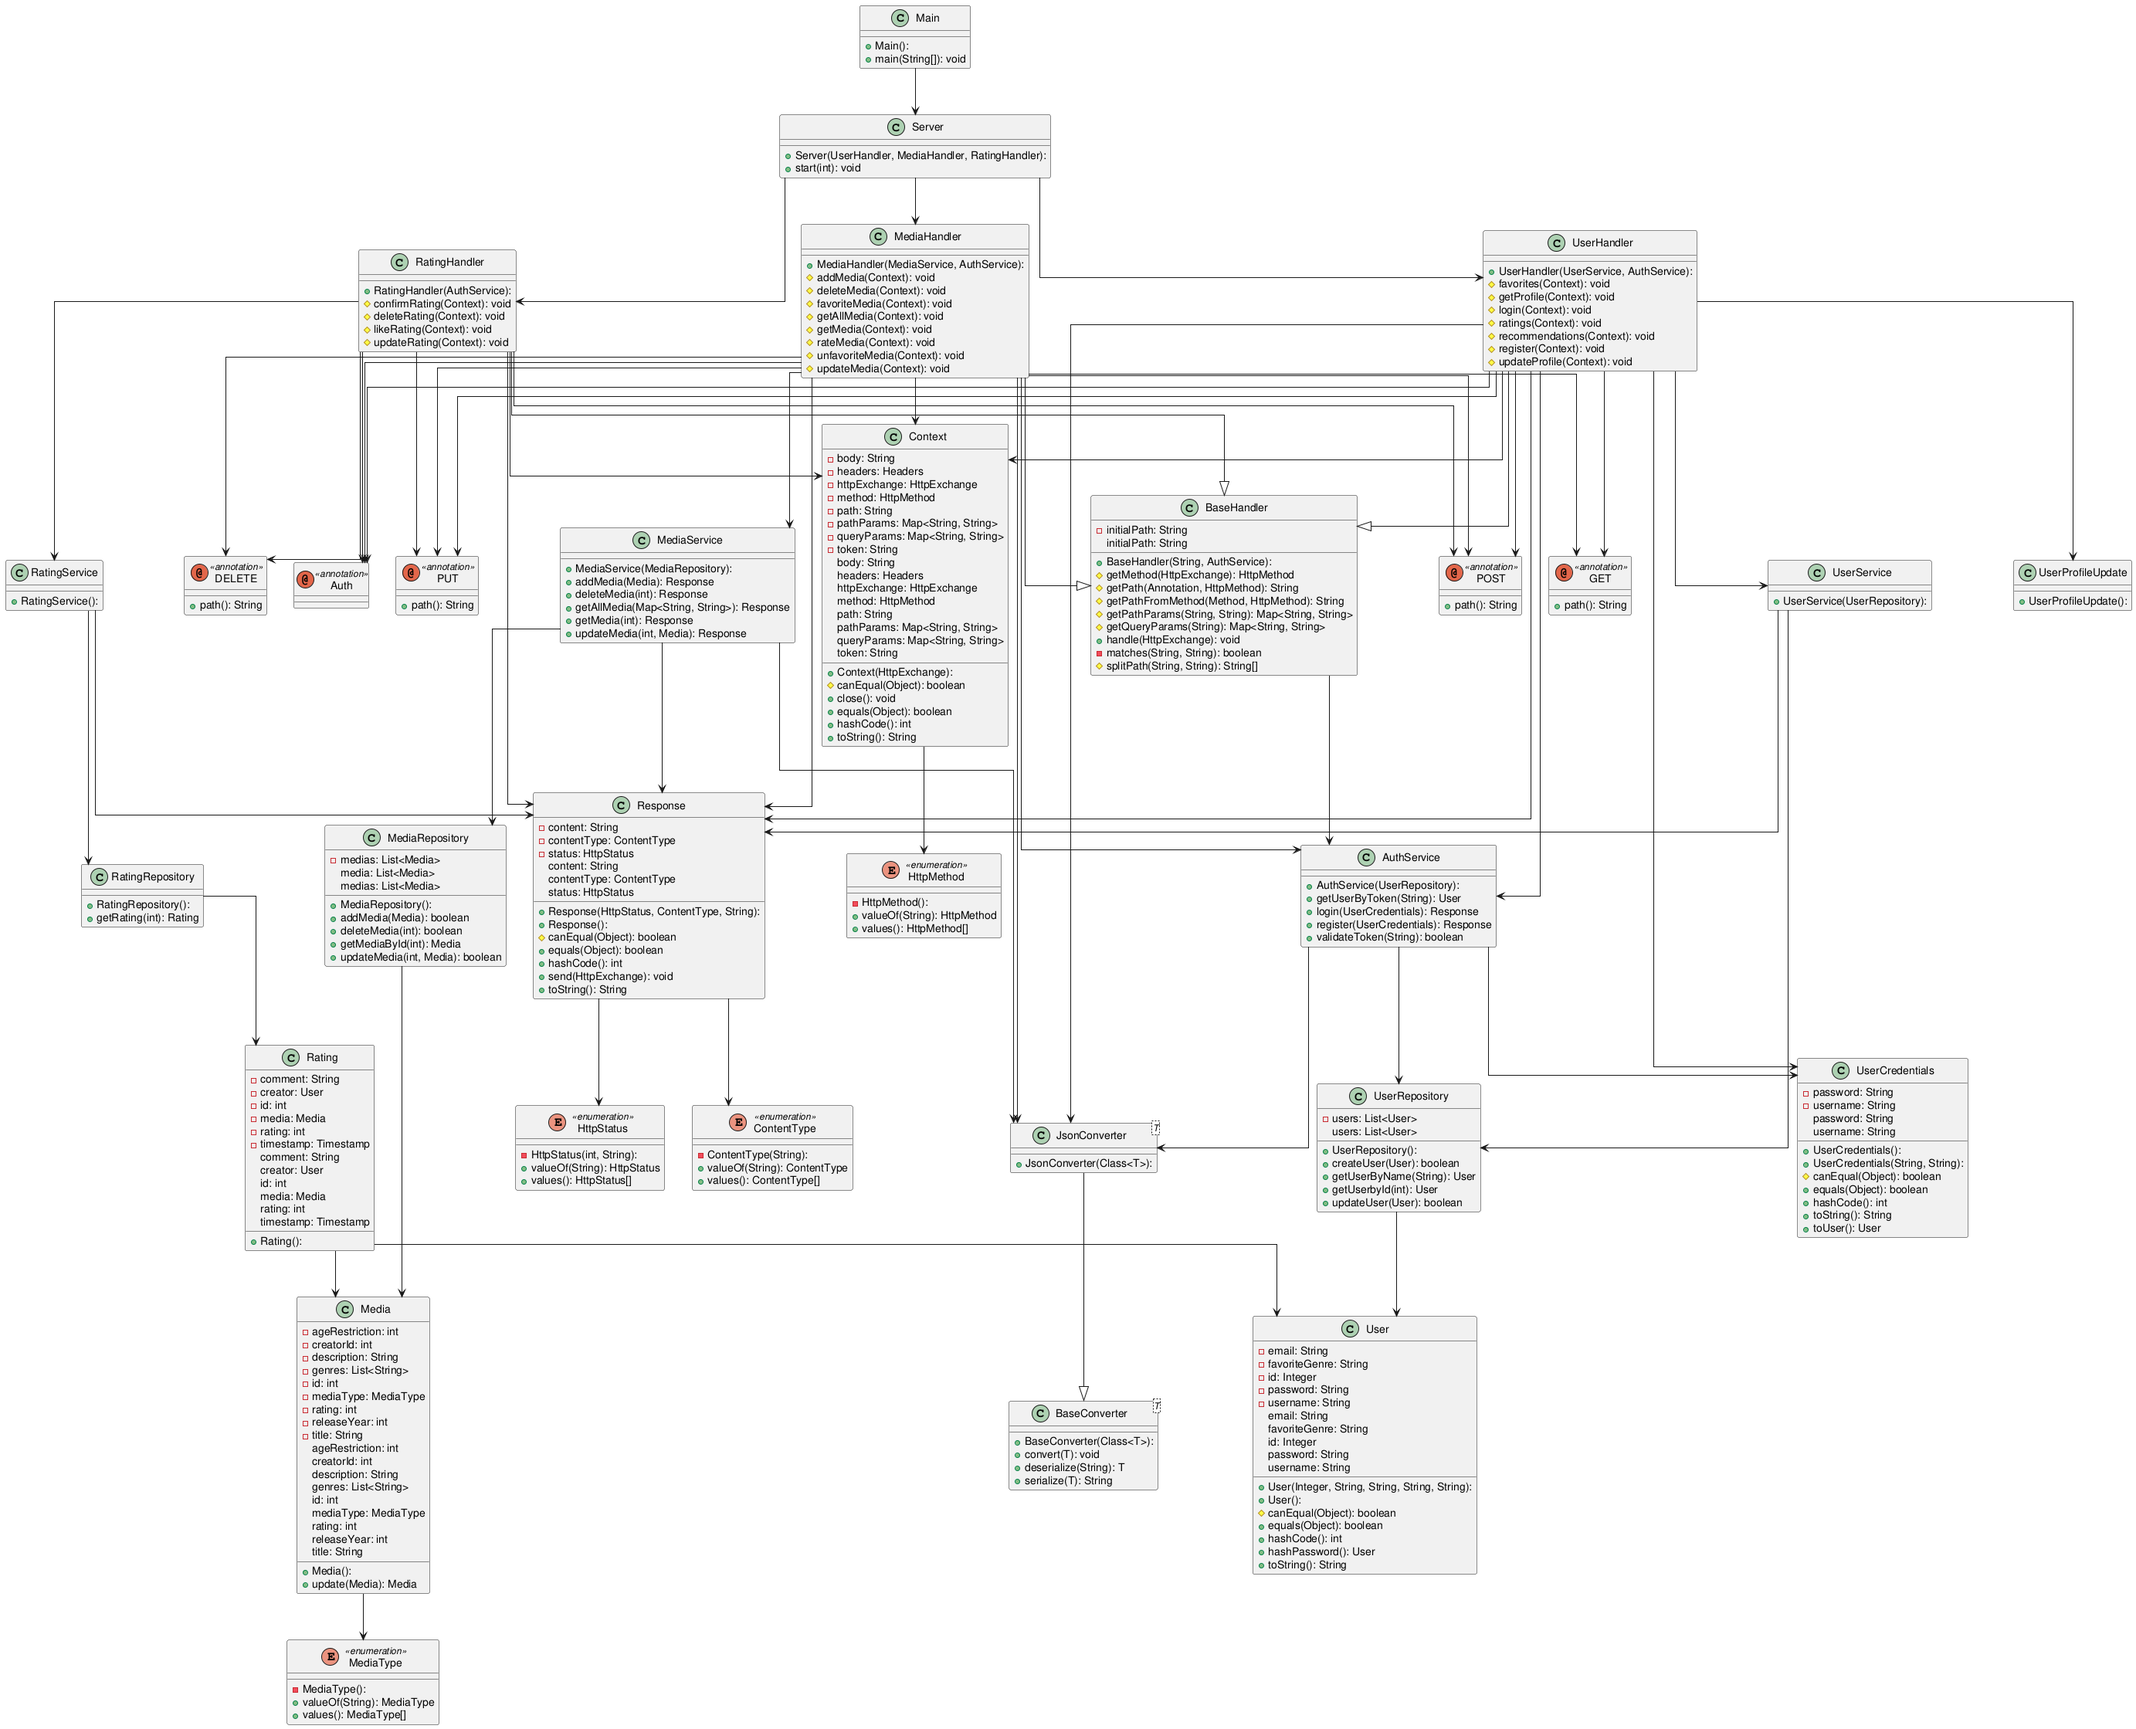
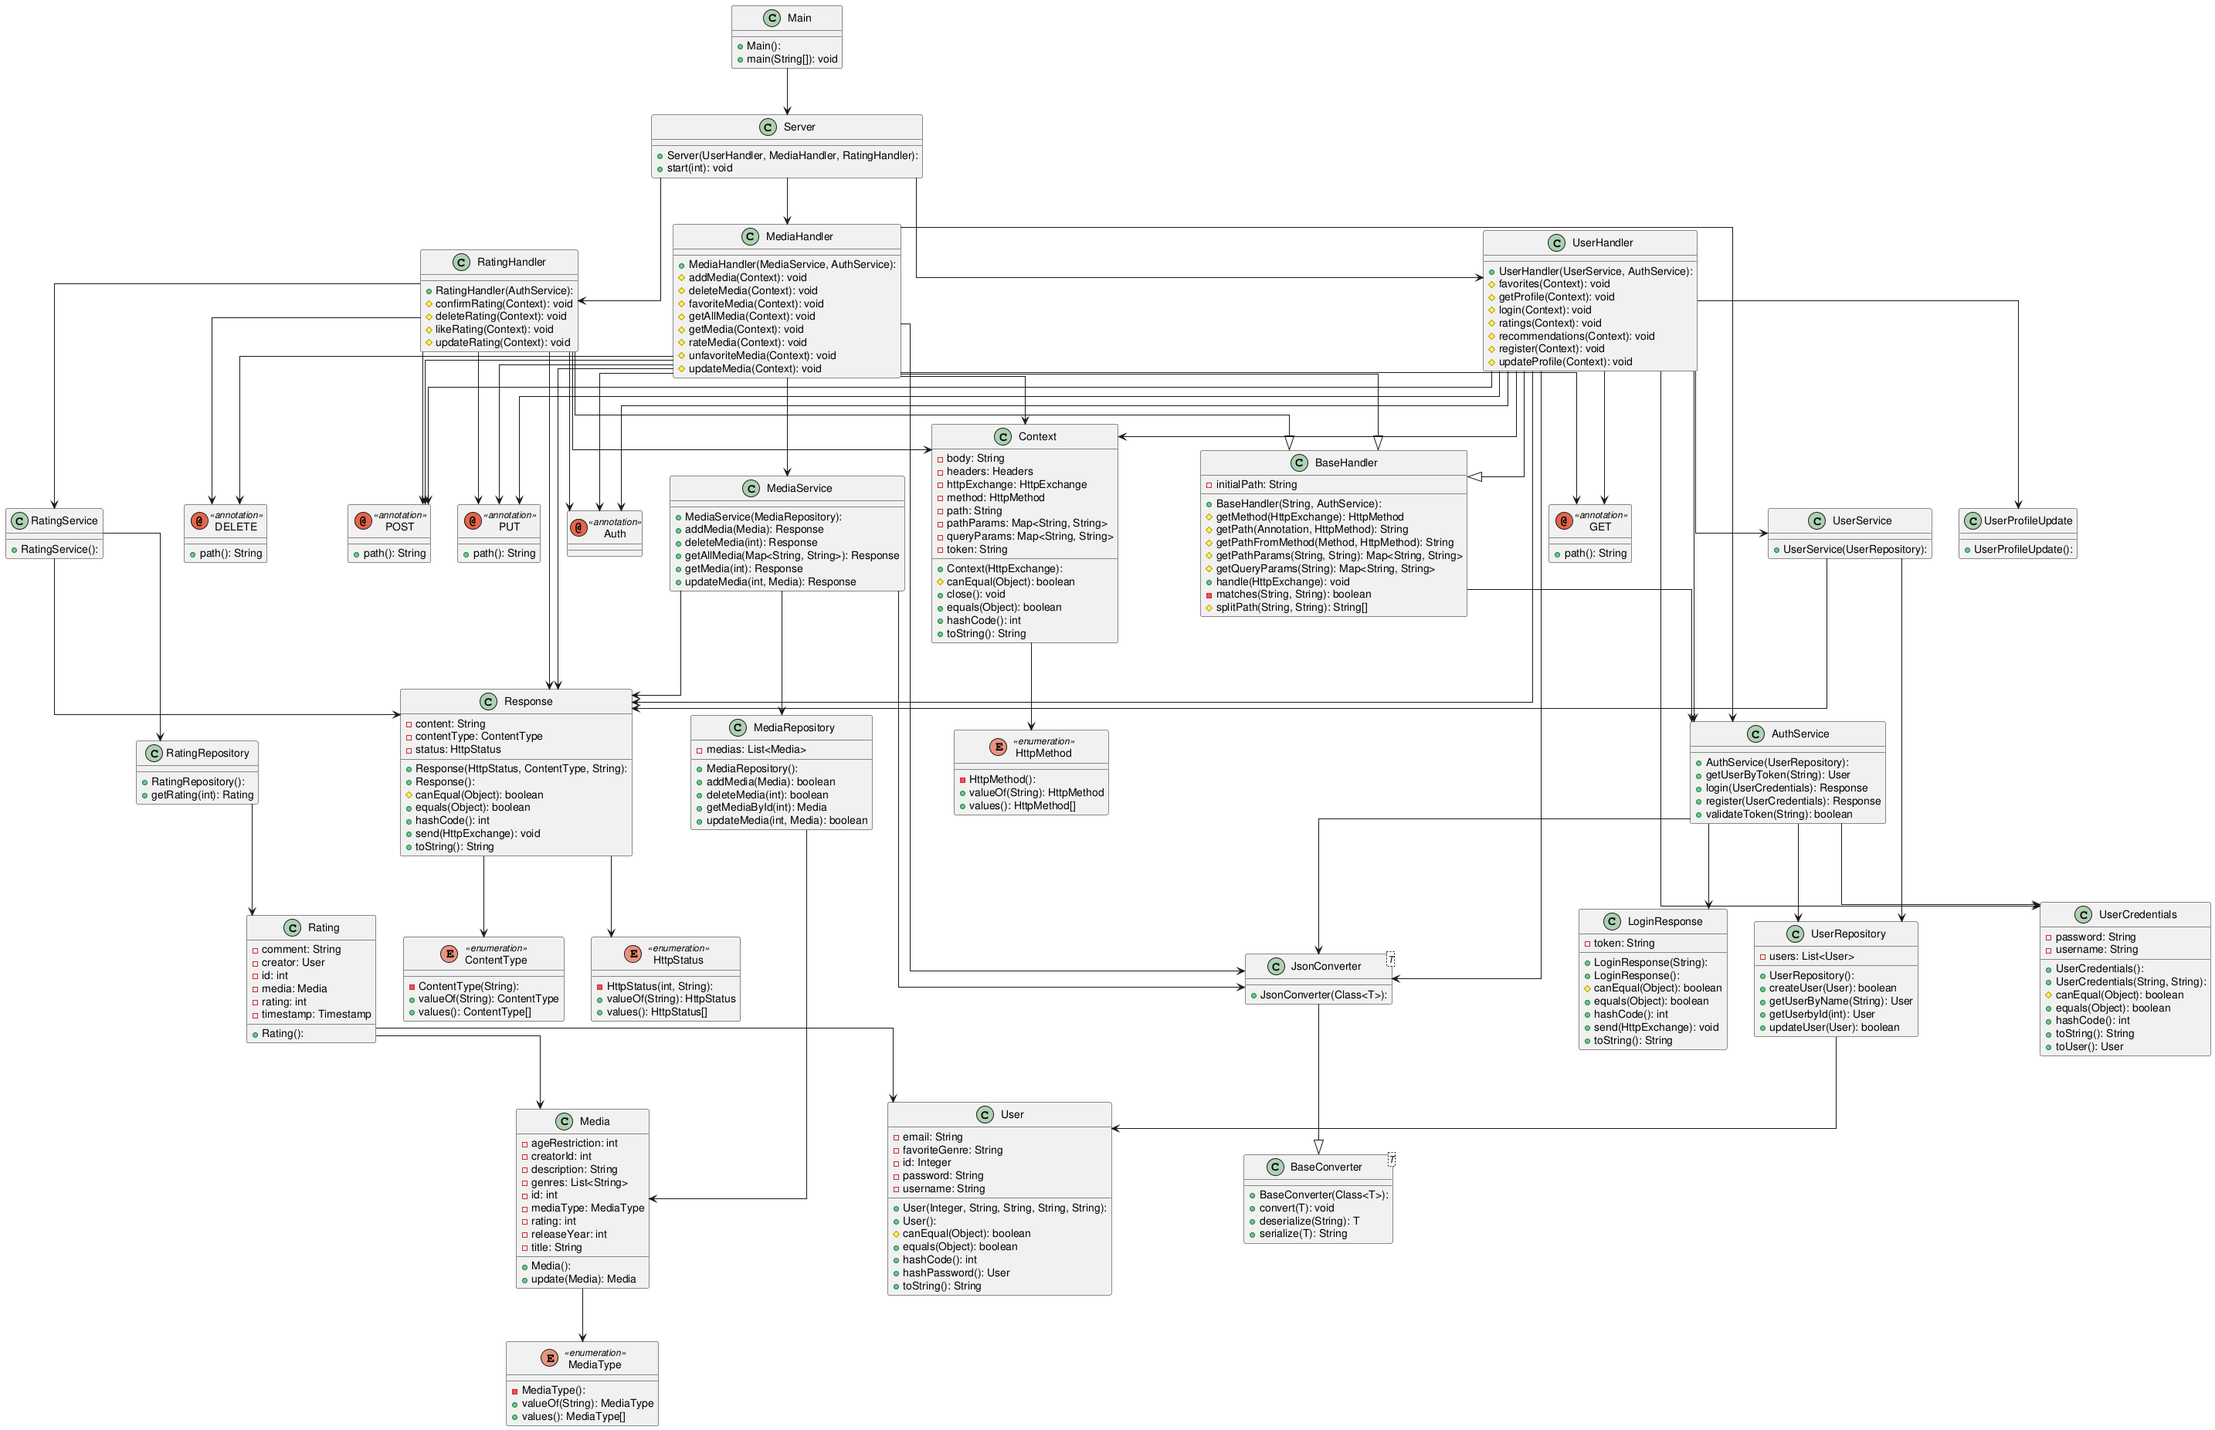
Added integrations tests with curl script and .http file Added class diagram LoginResponse Object was added to encapsulate the token and serialize it to a better Json Updated ReadMe.md Updated AuthService with LoginResponse

diff --git a/src/main/java/at/fhtw/services/AuthService.java b/src/main/java/at/fhtw/services/AuthService.java
@@ -6,6 +6,7 @@ import at.fhtw.models.dtos.UserCredentials;
 import at.fhtw.persistence.UserRepository;
 import at.fhtw.presentation.http.ContentType;
 import at.fhtw.presentation.http.HttpStatus;
+import at.fhtw.presentation.models.LoginResponse;
 import at.fhtw.presentation.models.Response;
 import com.auth0.jwt.JWT;
 import com.auth0.jwt.JWTVerifier;
@@ -55,11 +56,12 @@ public class AuthService {
                 .withJWTId(UUID.randomUUID().toString())
                 .withNotBefore(new Date(System.currentTimeMillis() + 1000))
                 .sign(algorithm);
-        JsonConverter<String> jsonConverter = new JsonConverter<>(String.class);
+        JsonConverter<LoginResponse> jsonConverter = new JsonConverter<>(LoginResponse.class);
+        LoginResponse loginResponse = new LoginResponse(token);
         return new Response(
                 HttpStatus.OK,
                 ContentType.JSON,
-                jsonConverter.serialize(token)
+                jsonConverter.serialize(loginResponse)
         );
     }
 

diff --git a/src/main/java/at/fhtw/persistence/MediaRepository.java b/src/main/java/at/fhtw/persistence/MediaRepository.java
@@ -12,7 +12,7 @@ import java.util.Optional;
 
 @Singleton
 public class MediaRepository {
-    private List<Media> medias = new ArrayList();
+    private final List<Media> medias = new ArrayList();
 
     private List<Media> getMedia() {
         return medias;

diff --git a/src/main/java/at/fhtw/presentation/models/LoginResponse.java b/src/main/java/at/fhtw/presentation/models/LoginResponse.java
@@ -1,0 +1,12 @@
+package at.fhtw.presentation.models;
+
+import lombok.AllArgsConstructor;
+import lombok.Data;
+import lombok.NoArgsConstructor;
+
+@Data
+@AllArgsConstructor
+@NoArgsConstructor
+public class LoginResponse {
+    private String token;
+}

diff --git a/ReadMe.md b/ReadMe.md
@@ -42,6 +42,8 @@ The Persistence Layer has the single responsibility to save or retrieve data. Mo
 
 ### Models
 
+The Models Folder contains all data objects that are shared between layers. Some data objects are only used in one layer so they are located there (e.g Context and Response are located in presenation layer)
+
 ### Converter
 
 The Converter currently only holds one Mapper for Json but could be expanded to allow for mapping to XML and others.
@@ -54,10 +56,50 @@ For this I looked into Annotations and created my own for the different HttpMeth
 The BaseHandler which all other Handlers should extend handles the logic for routing and Authentication based on the aforementioned Annotations using reflections.
 This also gives the option to output the api calls and which function was called for this endpoint for easy debugging.
 
-Another important feature I wanted to use was Dependency Injection (DI). This would simplify the Process of accessing other Classes/Layers and
-would also allow me to simply provide Singletons for the Repositories due to the fact that they currently use a List saved in the Repository Instance.
+Another important feature I wanted to use was Dependency Injection (DI). To make this easier I added the Guice package which allows Injection without having to pass the instances through the entire creation chain.
+This would simplify the Process of accessing other Classes/Layers and would also allow me to simply provide Singletons for the Repositories due to the fact that they currently use a List saved in the Repository Instance.
 
 With these design decisions the process of implementing different endpoints is very simple since you don't have to think about Passing instances of services and a giant switch case for the different endpoints is also not needed. 
+
+## Problems
+
+There were only a few problems during the development process. 
+The first one was the Design of the Router. I wasn't satisfied with creating a giant if-else block that would hold all the methods that corresponded to each endpoint.
+So I decided to move all this logic to a BaseHandler and only register the methods in a map.
+But this approach had its own pitfalls, because passing through the method and having all necessary information in the map wasn't very clear to see which endpoint was which so I switched to Annotations.
+This solved all these problems and gave me a simple way to access all methods and the corresponding information.
+
+The second problem I encountered was the dependency injection for each Handler/Service/Repository.
+Since not every Class needs everything I decided to use a Library called Guice that would alleviate the need for this by providing the injections to the corresponding classes.
+This makes the code easier to read and removes the need to pass Instances through the entire code.
+
+With this arose another problem that the instances of the Repositories, which held the Lists of Objects, weren't the same throughout the application.
+To fix this I needed to mark the Repositories with the @Singleton Annotation to tell Guice that the Instance of this Class should always be the same.
+
+## Time tracking
+
+### Structuring Files
+
+approx. 2 hours
+
+### Router
+
+approx. 2 Days
+
+### Implementing routes
+
+approx. 4 hours
+
+### Authorisation
+
+approx. 2 hours
+
+## Testing
+
+For testing I've provided 2 possible ways:
+
+* curl-script: A simple Curl script (integrationTests.sh) that shows the registration, login and CRUD operations. The script was written on linux, so testing on Windows maybe in WSL
+* Intellij http script: If the Curl script shouldn't work the http script from Intellij performs the same actions.
 
 ## Class Diagram
 
